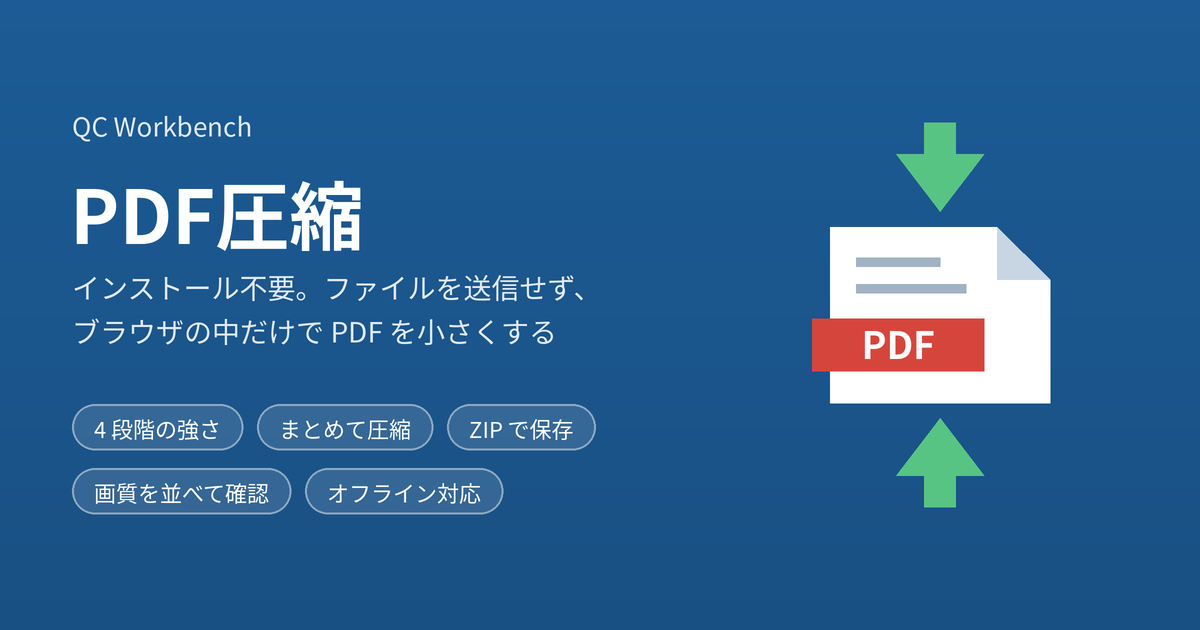
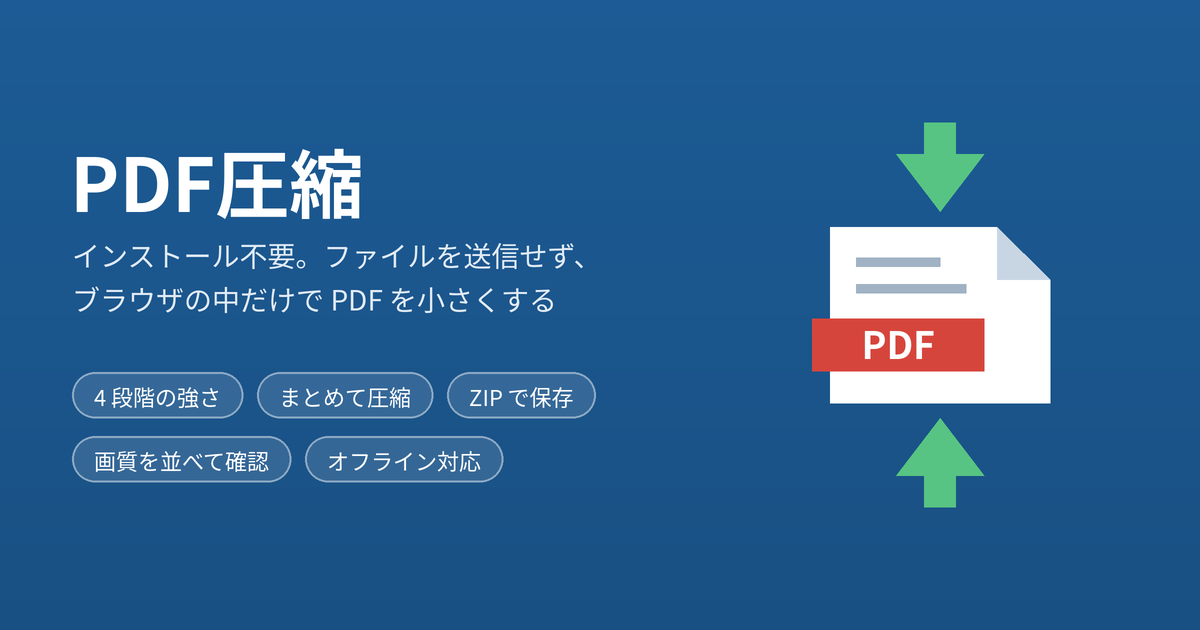
QC Workbench の表記を外す
画面上部の戻るリンク、og:site_name、og.png とスクリーンショットの「QC Workbench」を消す。sw.js の VERSION を上げる

Changed region(s): [[0.0617, 0.573, 0.4933, 0.8444], [0.0617, 0.181, 0.4933, 0.5429]]

diff --git a/index.html b/index.html
@@ -7,7 +7,6 @@
 <meta name="description" content="PDFのファイルサイズを小さくする。インストール不要で、ファイルはどこにも送信せずブラウザの中だけで圧縮する">
 <link rel="canonical" href="https://kotaooka.github.io/PDFComp/">
 <meta property="og:type" content="website">
-<meta property="og:site_name" content="QC Workbench">
 <meta property="og:title" content="PDF圧縮｜アップロードせずブラウザ内で小さくする無料ツール">
 <meta property="og:description" content="PDFのファイルサイズを小さくする。インストール不要で、ファイルはどこにも送信せずブラウザの中だけで圧縮する">
 <meta property="og:url" content="https://kotaooka.github.io/PDFComp/">
@@ -27,11 +26,11 @@
 <link rel="preconnect" href="https://fonts.gstatic.com" crossorigin>
 <link rel="stylesheet" href="https://fonts.googleapis.com/css2?family=BIZ+UDPGothic:wght@400;700&family=IBM+Plex+Mono:wght@500&display=swap">
 <script>
-  // 保存したテーマ（auto / light / dark）を描画前に当てる。キーは QC Workbench の全ツールで共通
+  // 保存したテーマ（auto / light / dark）を描画前に当てる。キーは kotaooka.github.io の各ツールで共通
   try { const t = localStorage.getItem("qc-workbench-theme"); if (t === "light" || t === "dark") document.documentElement.dataset.theme = t; } catch (e) { /* 保存できない環境 */ }
 </script>
 <style>
-/* 色・字体は QC Workbench の他のツール（cpk-calc / msa-calc など）と共通 */
+/* 色・字体は kotaooka.github.io の他のツール（cpk-calc / msa-calc など）と共通 */
 :root {
   --bg: #eef1f4; --surface: #ffffff; --ink: #15212c; --ink2: #475563; --muted: #74818e; --line: #d5dce3;
   --accent: #1d5c96; --accent-ink: #ffffff; --accent-weak: #e1ebf5;
@@ -66,9 +65,6 @@ header.top { position: sticky; top: env(safe-area-inset-top, 0px); z-index: 5; b
 .brand { display: flex; align-items: baseline; gap: 12px; flex-wrap: wrap; }
 .brand h1 { font-size: 1.15rem; margin: 0; letter-spacing: .02em; }
 .brand .std { font-size: .78rem; color: var(--muted); }
-.brand .home { font-size: .78rem; color: var(--muted); text-decoration: none; margin-right: -6px; }
-.brand .home:hover { color: var(--accent); text-decoration: underline; }
-.brand .crumb { font-size: .78rem; color: var(--muted); margin-right: -6px; }
 .brand .theme { margin-left: auto; }
 nav.tabs { display: flex; gap: 4px; margin-top: 10px; overflow-x: auto; scrollbar-width: none; }
 nav.tabs::-webkit-scrollbar { display: none; }
@@ -204,7 +200,7 @@ footer a { color: inherit; }
 <header class="top">
   <div class="top-in">
     <div class="brand">
-      <a class="home" href="https://kotaooka.github.io/" title="QC Workbench（ツール一覧）へ戻る">QC Workbench</a><span class="crumb" aria-hidden="true">›</span><h1>PDF圧縮</h1>
+      <h1>PDF圧縮</h1>
       <span class="std">Ghostscript（ブラウザ版）</span>
       <button class="btn small theme" id="themeBtn" type="button" aria-label="表示テーマを切り替え">表示：自動</button>
     </div>

diff --git a/js/app.js b/js/app.js
@@ -6,7 +6,7 @@ const $ = s => document.querySelector(s);
 const WASM_SIZE = 15533045;   // vendor/ghostpdl-wasm/gs.wasm の大きさ（読み込みの進捗表示に使う。更新したら合わせる）
 const STORE_KEY = 'pdfcomp-v1';
 
-// ---------- 表示テーマ（QC Workbench 共通） ----------
+// ---------- 表示テーマ（kotaooka.github.io の各ツールで共通） ----------
 const THEME_KEY = 'qc-workbench-theme';
 const THEMES = ['auto', 'light', 'dark'];
 const THEME_LABEL = { auto: '表示：自動', light: '表示：ライト', dark: '表示：ダーク' };

diff --git a/sw.js b/sw.js
@@ -1,6 +1,6 @@
 // PDF圧縮の Service Worker
 // 公開ファイルを更新したら VERSION を上げる。古いキャッシュは activate 時に削除される
-const VERSION = 'v1.1.4';
+const VERSION = 'v1.1.5';
 const APP_CACHE = `pdfcomp-${VERSION}`;
 const FONT_CACHE = 'pdfcomp-fonts';
 // 圧縮エンジンは別のキャッシュに置き、VERSION を上げても消さない（15 MB を毎回読み直させないため）。

diff --git a/tools/make_images.py b/tools/make_images.py
@@ -11,7 +11,7 @@ REPO = pathlib.Path(__file__).resolve().parent.parent
 FONT_DIR = pathlib.Path(sys.argv[1] if len(sys.argv) > 1 else "/usr/share/fonts/opentype/noto")
 SS = 4  # 縮小前の倍率（アンチエイリアス用）
 
-ACCENT = (29, 92, 150)       # #1d5c96（QC Workbench のツール共通のアクセント色）
+ACCENT = (29, 92, 150)       # #1d5c96（kotaooka.github.io のツール共通のアクセント色）
 WHITE = (255, 255, 255)
 GREEN = (87, 196, 131)       # 矢印（縮む）
 RED = (214, 69, 60)          # PDF の帯
@@ -81,14 +81,13 @@ def og():
         dr.line([(0, yy), (W, yy)], fill=tuple(round(top[i] + (bot[i] - top[i]) * t) for i in range(3)))
     d = ImageDraw.Draw(im, "RGBA")
     k = 2
-    d.text((72 * k, 106 * k), "QC Workbench", font=font("Regular", 26 * k), fill=(225, 234, 244))
-    d.text((70 * k, 158 * k), "PDF圧縮", font=font("Bold", 74 * k), fill=WHITE)
+    d.text((70 * k, 126 * k), "PDF圧縮", font=font("Bold", 74 * k), fill=WHITE)
     sub = font("Regular", 28 * k)
-    d.text((72 * k, 266 * k), "インストール不要。ファイルを送信せず、", font=sub, fill=(225, 234, 244))
-    d.text((72 * k, 310 * k), "ブラウザの中だけで PDF を小さくする", font=sub, fill=(225, 234, 244))
+    d.text((72 * k, 234 * k), "インストール不要。ファイルを送信せず、", font=sub, fill=(225, 234, 244))
+    d.text((72 * k, 278 * k), "ブラウザの中だけで PDF を小さくする", font=sub, fill=(225, 234, 244))
     pill = font("Regular", 22 * k)
     rows = [["4 段階の強さ", "まとめて圧縮", "ZIP で保存"], ["画質を並べて確認", "オフライン対応"]]
-    y = 404 * k
+    y = 372 * k
     for row in rows:
         x = 72 * k
         for t in row:

diff --git a/DEVELOPMENT.md b/DEVELOPMENT.md
@@ -55,4 +55,4 @@ node tests/test.mjs     # Node 20 以降。失敗があれば終了コード 1
 - **上限サイズ**：`TARGET_LEVELS`（解像度と JPEG の QFactor の 11 段）を、最高画質を 1 回試したあと二分探索します（`searchTarget`、最大 5 回）。土台は `/ebook`、QFactor は `-c "<< /ColorACSImageDict … >> setdistillerparams" -f 入力` で渡します（AutoFilter が JPEG を選んだ画像に効く）。画質を下げるほど小さくなる前提ですが、縮小倍率が整数でない段で JPEG が縮みにくく逆転することがあるため、試した中で上限以下の最も高画質な結果を返します。元のファイルが上限以下なら圧縮しません
 - **確認済みの挙動**（Ghostscript 10.06.0）：しおり・リンク・文書情報は残る。AcroForm の入力欄は値ごと平坦化される。権限パスワードだけの PDF は制限なしで出力される。埋め込まれていない日本語フォントは代替フォントが埋め込まれ、見た目は保たれるが英数字のテキスト抽出が崩れることがある
 - **事前チェック**（`inspect`）：PDF の中身を文字列として探す目安です。`/Encrypt`（トレーラー）と `/ByteRange`（電子署名）は圧縮されない場所にあるので確実性が高く、`/AcroForm` はオブジェクトストリーム内にあると見落とします
-- **設定の保存**：ブラウザの localStorage（キー `pdfcomp-v1`）。表示テーマは QC Workbench 共通のキー `qc-workbench-theme`
+- **設定の保存**：ブラウザの localStorage（キー `pdfcomp-v1`）。表示テーマは kotaooka.github.io の各ツールで共通のキー `qc-workbench-theme`
